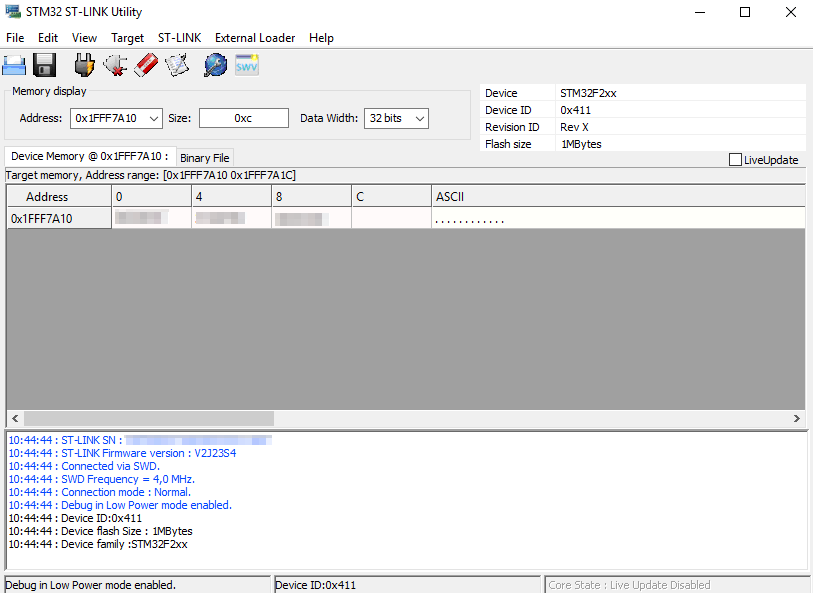
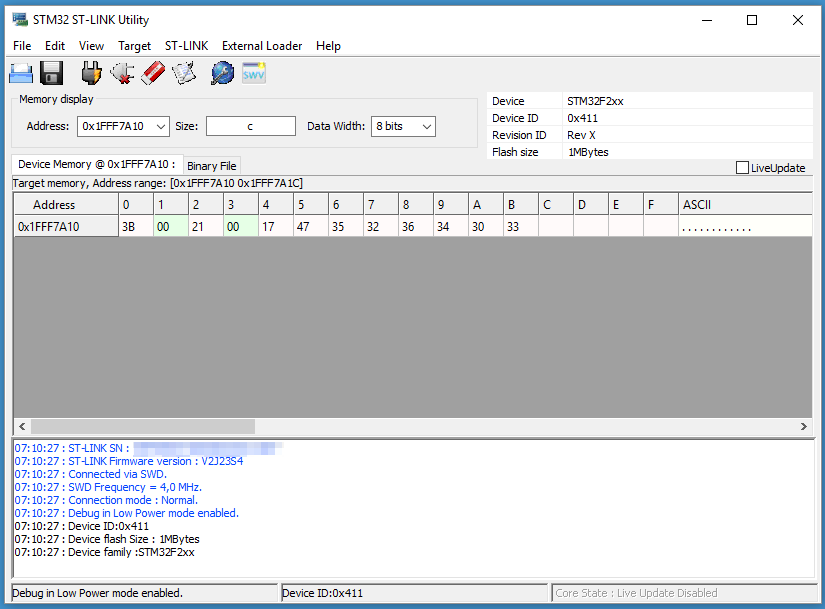
update instructions for JTAG/SWD

Changed region(s): [[0.0, 0.0, 1.0, 1.0]]

diff --git a/finding-device-id/README.md b/finding-device-id/README.md
@@ -182,28 +182,43 @@ I connected a ST-LINK/V2 mini to a Photon using SWD, which only requires three c
 
 You need to make sure your user firmware doesn't interfere with SWD; one easy way to do this is just put it in DFU mode (blinking yellow).
 
-Then just display the memory at 0x1FFF7A10 with a size of 0xc (12 bytes).
+Then just display the memory at **0x1FFF7A10** with a size of **C** (0xC, 12 bytes) and a data width of **8 bits**.
 
 ![ST-LINK Screen](stlink.png)
 
-Note that the bytes are out of order, as explained below.
+I also was able to use a ST-LINK/V2 mini SWD programmer on the Mac using OpenOCD in telnet mode:
+
+```
+openocd -f interface/stlink-v2.cfg -f target/stm32f2x.cfg -c "telnet_port 4444"
+```
+
+And then use the mdb command to display memory via the telnet session:
+
+```
+$ telnet localhost 4444
+Trying 127.0.0.1...
+Connected to localhost.
+Escape character is '^]'.
+Open On-Chip Debugger
+> mdb 0x1FFF7A10 12
+0x1fff7a10: 3b 00 21 00 17 47 35 32 36 34 30 33 
+```
 
 I also tested this using the Particle Programmer shield using OpenOCD and GDB to get the data via JTAG:
 
 ```
 $ openocd -f interface/ftdi/particle-ftdi.cfg -f target/stm32f2x.cfg -c "gdb_port 3333"
+```
+
+And in a separate terminal window:
+
+```
 $ arm-none-eabi-gdb
 (gdb) target remote:3333
 Remote debugging using :3333
 0x00000000 in ?? ()
-(gdb) monitor mdw 0x1FFF7A10 3
-0x1fff7a10: 1232001e 31344734 39101149
-```
-
-Note that because of byte order, each 32-bit value has the individual bytes swapped. Below is the actual device ID, and you can easily see how the bytes are swapped:
-
-```
-            1e003212 34473431 49111039
+(gdb) monitor mdb 0x1FFF7A10 12
+0x1fff7a10: 3b 00 21 00 17 47 35 32 36 34 30 33 
 ```
 
 
